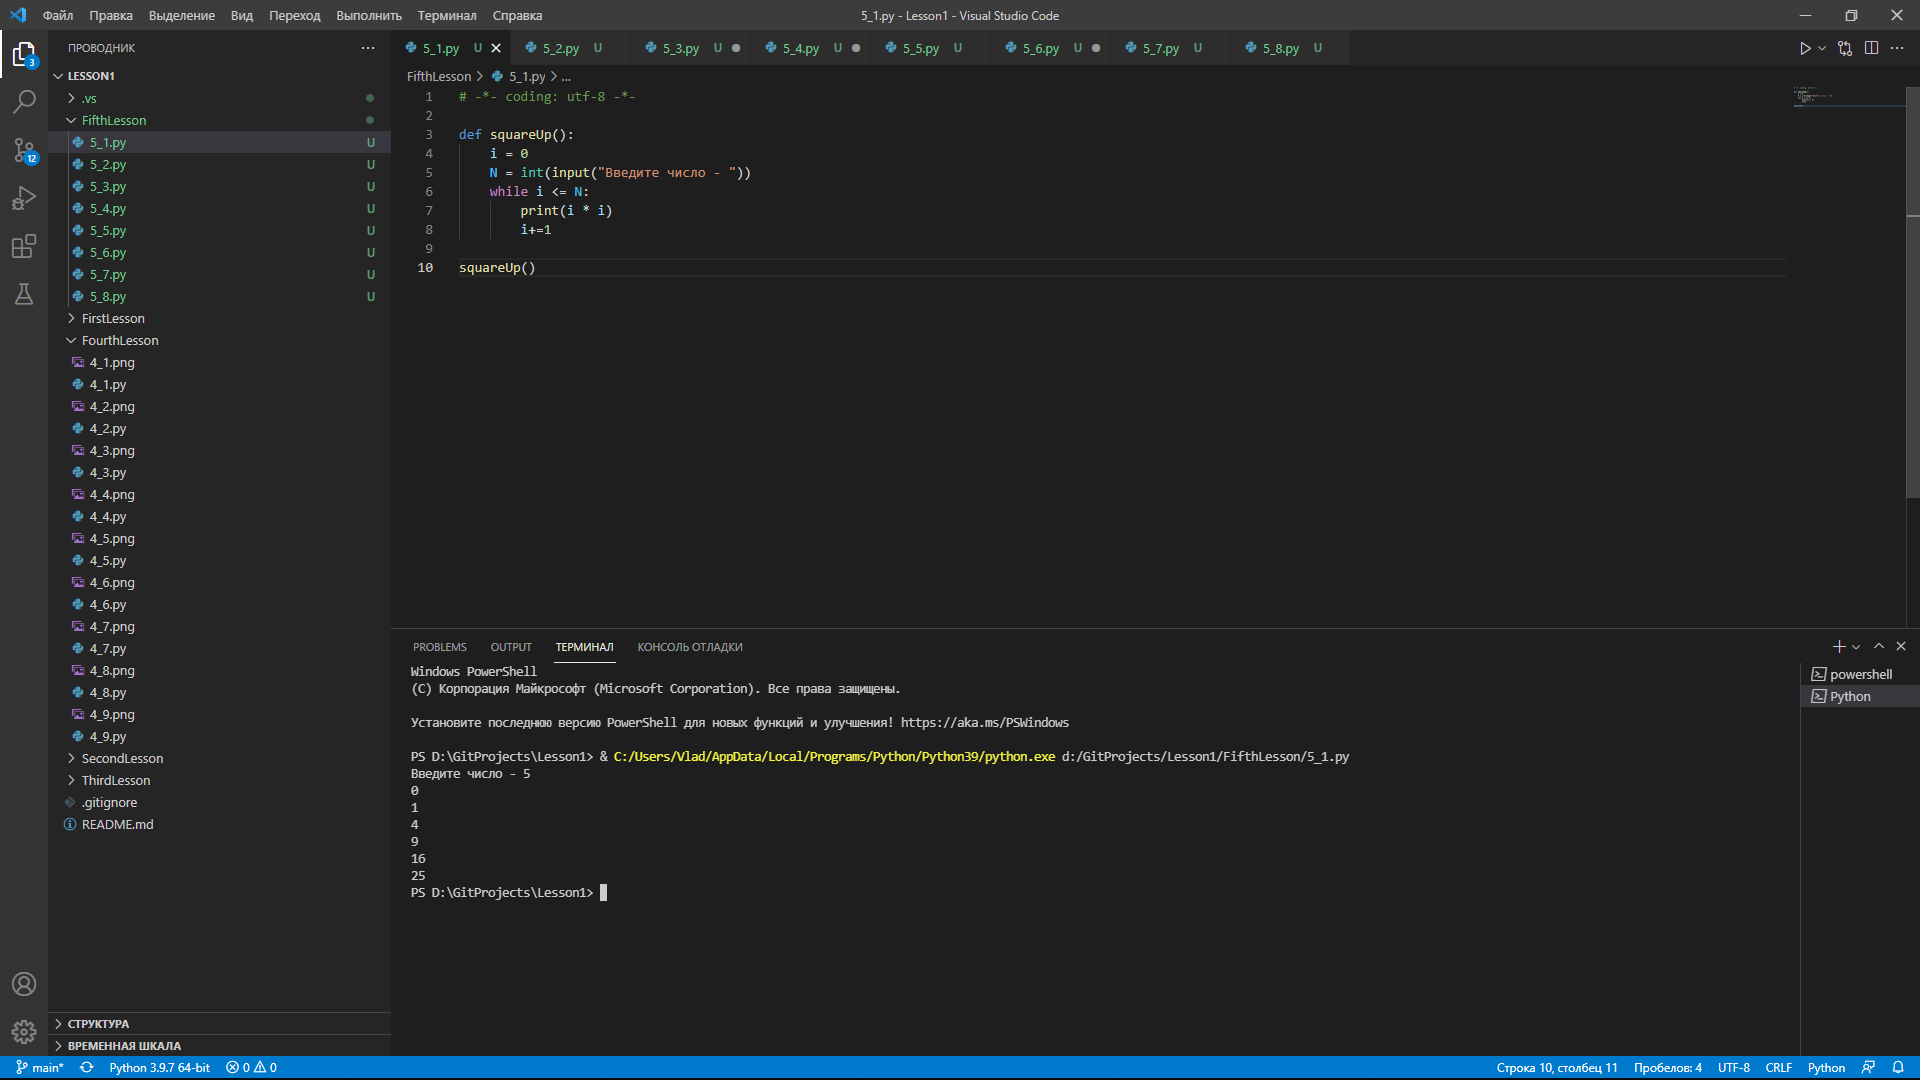
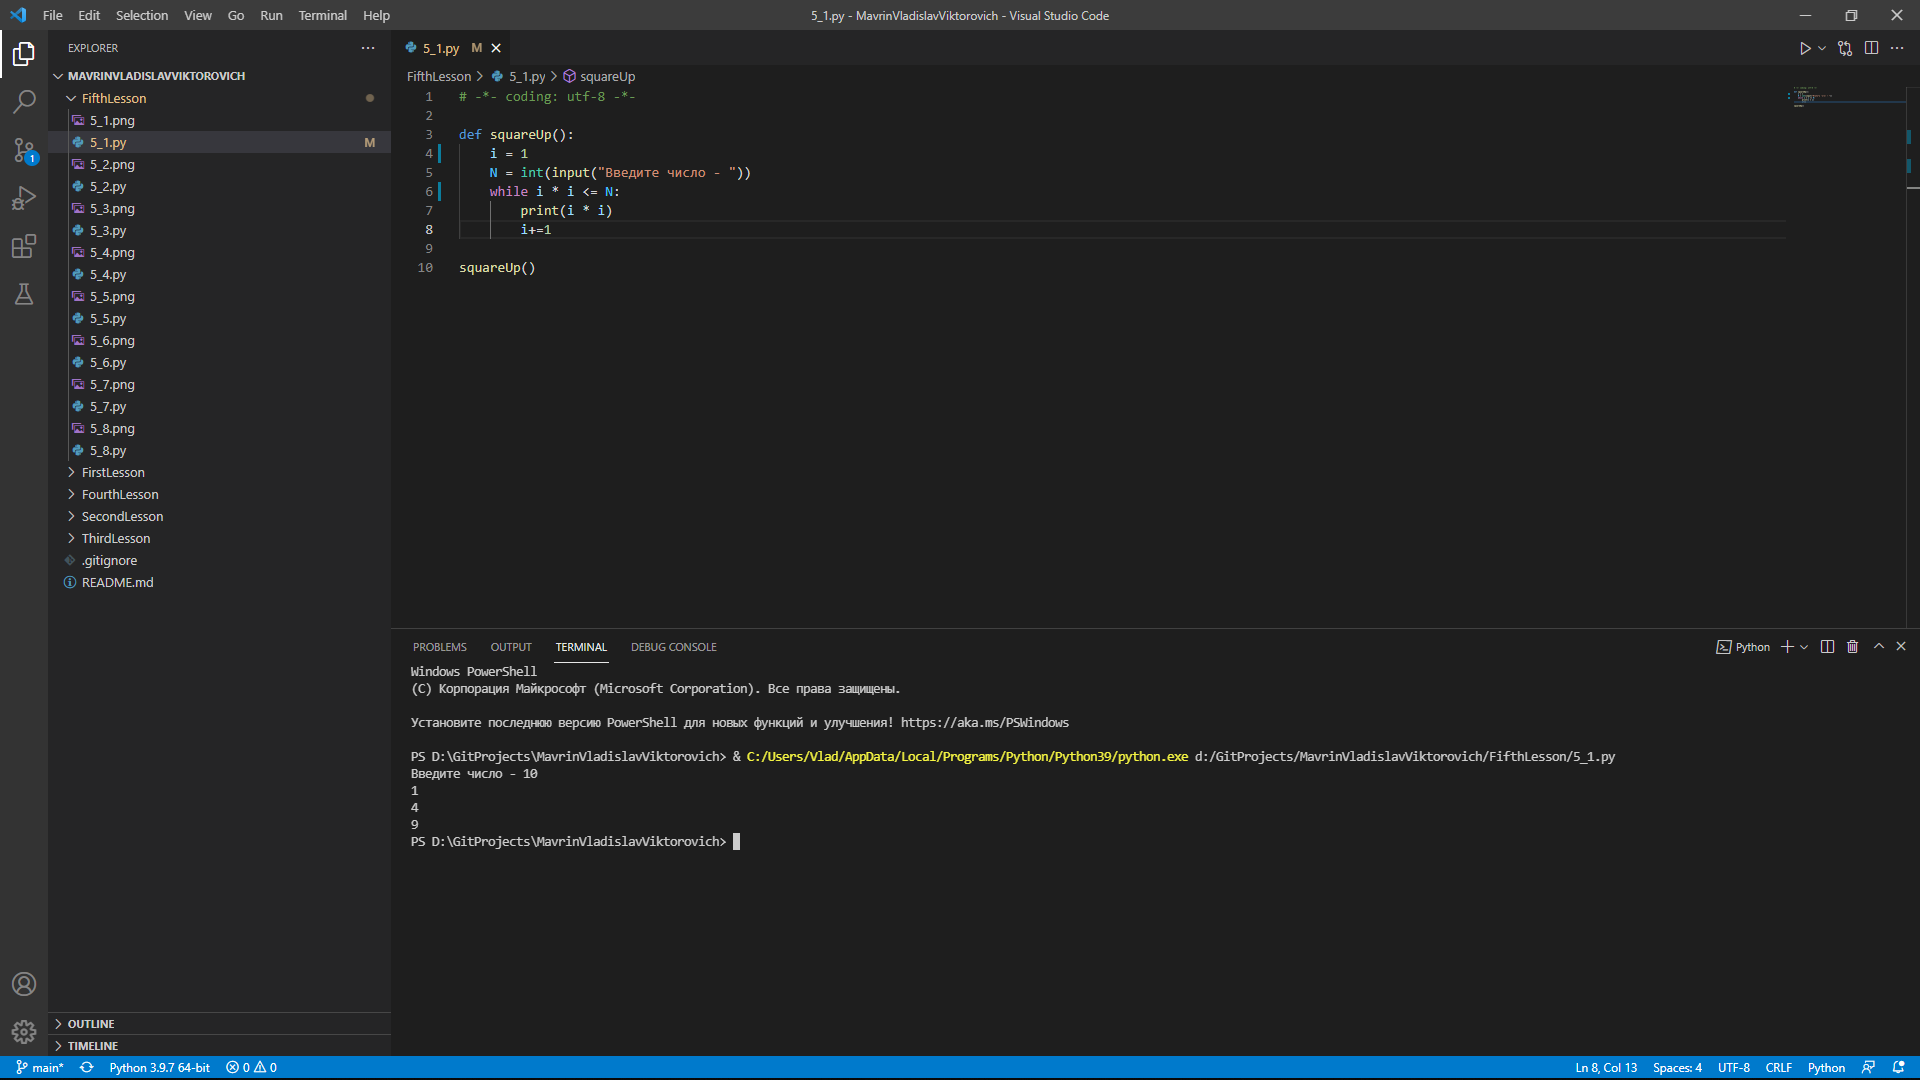
fix

diff --git a/FifthLesson/5_1.py b/FifthLesson/5_1.py
@@ -1,9 +1,9 @@
 # -*- coding: utf-8 -*-
 
 def squareUp():
-    i = 0
+    i = 1
     N = int(input("Введите число - "))
-    while i <= N:
+    while i * i <= N:
         print(i * i)
         i+=1
 
